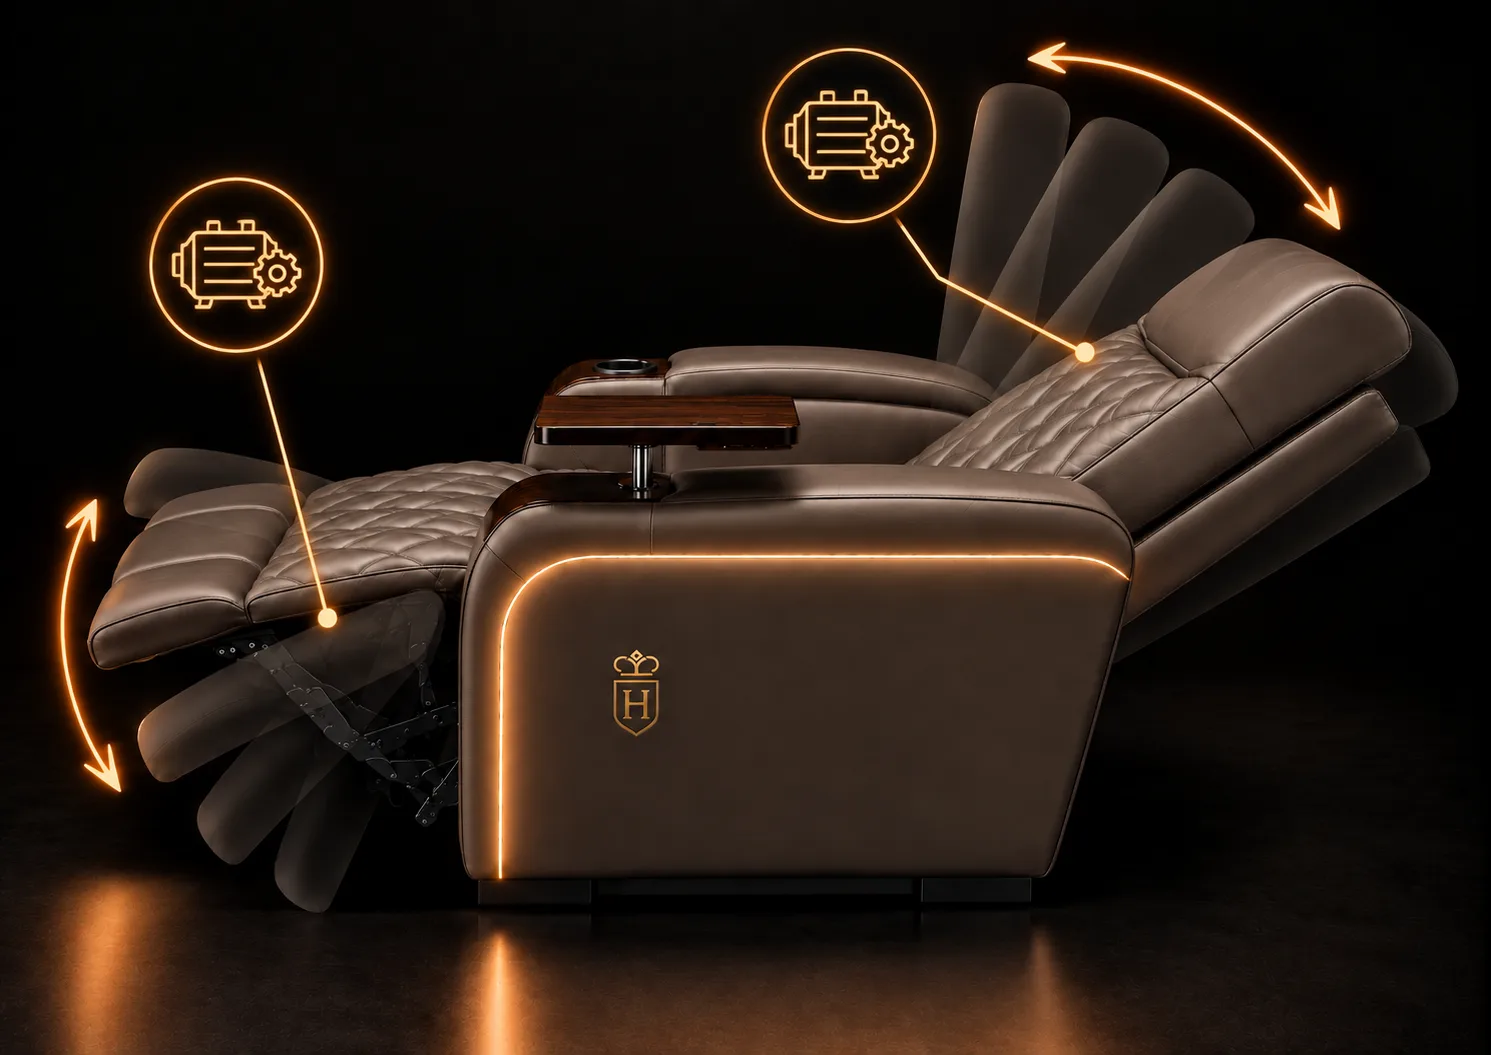
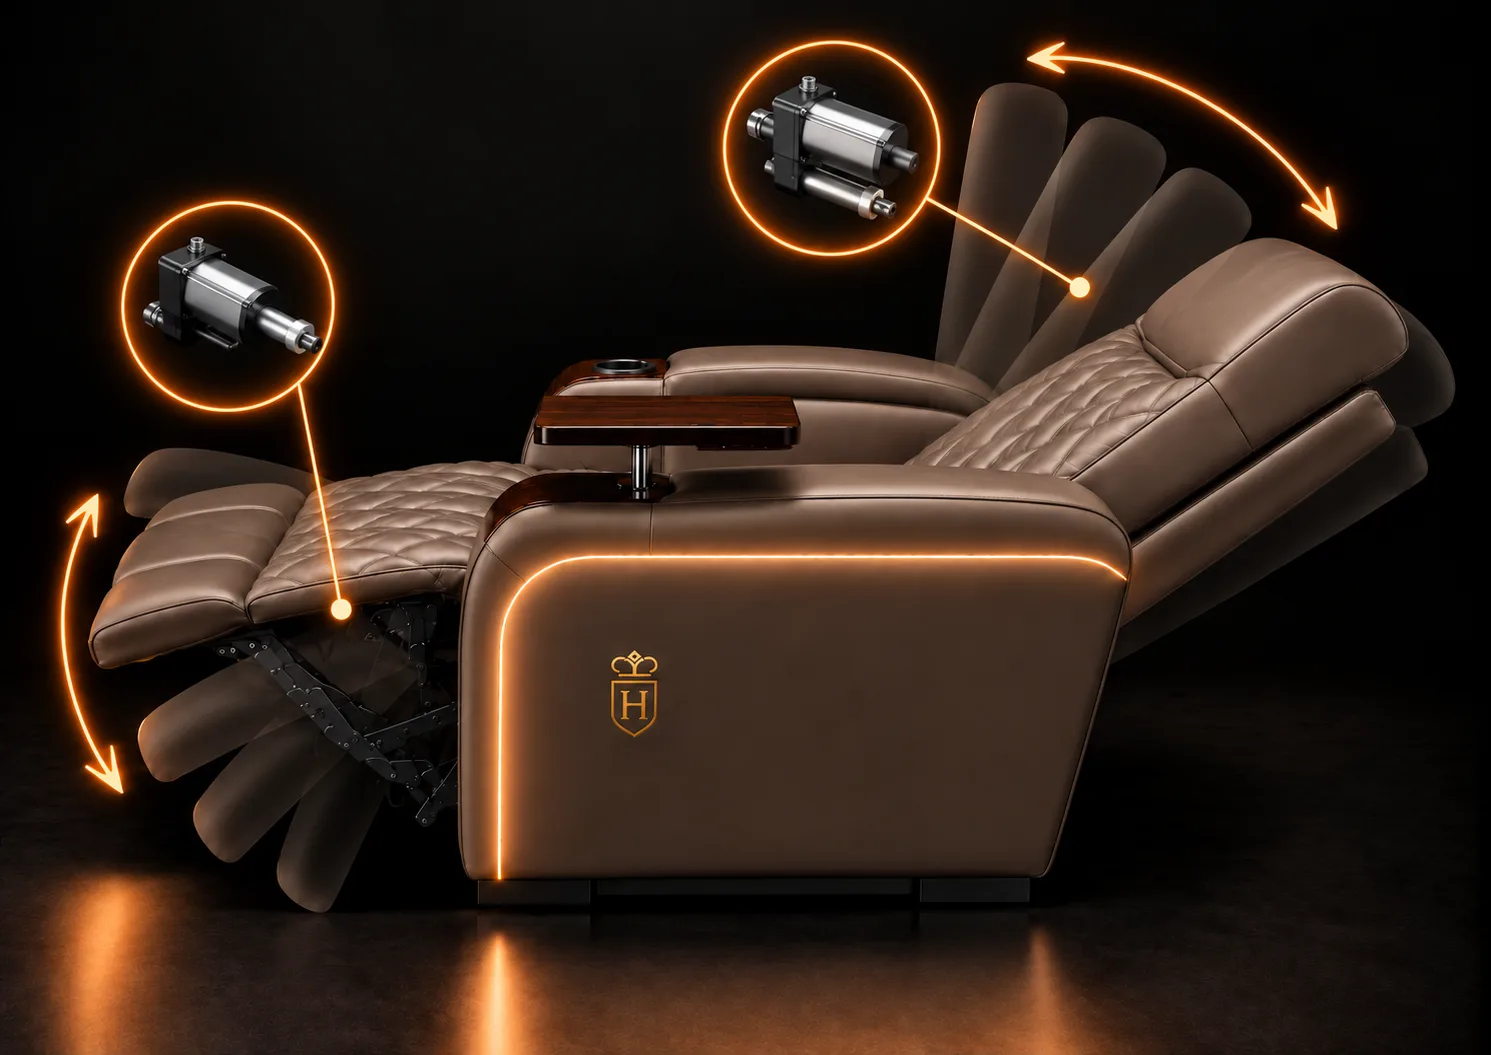
Add massage function equipment option to Vesper Solo, Nova Solo, Solaris Solo; replace Vesper Solo mechanism photo; convert equipment images to webp

diff --git a/files-mentioned-by-the-user-asset/outputs/henry-home-prototype/app/components/product-experience.tsx b/files-mentioned-by-the-user-asset/outputs/henry-home-prototype/app/components/product-experience.tsx
@@ -77,10 +77,24 @@ const equipmentOptions = [
   { key: "headrest", number: "05", title: "Elektryczny zagłówek", description: "Płynna regulacja dopasowana do sylwetki.", image: "/media/personalizacja/headrest.png" },
 ];
 
+const novaSoloEquipmentRoot = "/media/product-pages/nova-solo/equipment";
+
+const novaSoloEquipmentOptions = [
+  ...equipmentOptions,
+  { key: "masaz", number: "06", title: "Funkcja masażu", description: "Wbudowany masaż wspierający pełny relaks podczas seansu.", image: `${novaSoloEquipmentRoot}/nova-solo-equipment-06-funkcja-masazu.webp` },
+];
+
+const solarisSoloEquipmentRoot = "/media/product-pages/solaris-solo/equipment";
+
+const solarisSoloEquipmentOptions = [
+  ...equipmentOptions,
+  { key: "masaz", number: "06", title: "Funkcja masażu", description: "Wbudowany masaż wspierający pełny relaks podczas seansu.", image: `${solarisSoloEquipmentRoot}/solaris-solo-equipment-06-funkcja-masazu.webp` },
+];
+
 const vesperSoloEquipmentRoot = "/media/product-pages/vesper-solo/equipment";
 
 const vesperSoloEquipmentOptions = [
-  { key: "henry-command", number: "01", title: "HENRY Command", description: "Inteligentny panel sterowania. Centralne sterowanie funkcjami fotela z poziomu intuicyjnego ekranu dotykowego. Pozycja fotela, pamięć ustawień, masaż, ogrzewanie i Ambient Lighting — wszystko w jednym miejscu.", image: `${vesperSoloEquipmentRoot}/vesper-solo-equipment-00-henry-command.png` },
+  { key: "henry-command", number: "01", title: "HENRY Command", description: "Inteligentny panel sterowania. Centralne sterowanie funkcjami fotela z poziomu intuicyjnego ekranu dotykowego. Pozycja fotela, pamięć ustawień, masaż, ogrzewanie i Ambient Lighting — wszystko w jednym miejscu.", image: `${vesperSoloEquipmentRoot}/vesper-solo-equipment-00-henry-command.webp` },
   { key: "poduszka", number: "02", title: "Poduszka Henry", description: "Dodatkowe wsparcie i komfort w dowolnym miejscu fotela.", image: `${vesperSoloEquipmentRoot}/vesper-solo-equipment-01-poduszka-henry.webp` },
   { key: "stolik", number: "03", title: "Stolik Vesper", description: "Praktyczny stolik boczny dopasowany do bryły fotela.", image: `${vesperSoloEquipmentRoot}/vesper-solo-equipment-02-stolik-vesper.webp` },
   { key: "zaglowek", number: "04", title: "Regulacja zagłówka Vesper", description: "Precyzyjne dopasowanie podparcia głowy i szyi.", image: `${vesperSoloEquipmentRoot}/vesper-solo-equipment-03-regulacja-zaglowka.webp` },
@@ -90,6 +104,7 @@ const vesperSoloEquipmentOptions = [
   { key: "glosnik", number: "08", title: "Głośnik", description: "Dźwięk osobisty zintegrowany z fotelem.", image: `${vesperSoloEquipmentRoot}/vesper-solo-equipment-07-glosnik.webp` },
   { key: "schowek", number: "09", title: "Schowek w podłokietniku", description: "Miejsce na drobiazgi zawsze pod ręką.", image: `${vesperSoloEquipmentRoot}/vesper-solo-equipment-08-schowek.webp` },
   { key: "niezalezne-mechanizmy", number: "10", title: "Niezależne mechanizmy regulacji", description: "Oparcie i podnóżek regulowane niezależnie od siebie.", image: `${vesperSoloEquipmentRoot}/vesper-solo-equipment-09-niezalezne-mechanizmy.webp` },
+  { key: "masaz", number: "11", title: "Funkcja masażu", description: "Wbudowany masaż wspierający pełny relaks podczas seansu.", image: `${vesperSoloEquipmentRoot}/vesper-solo-equipment-10-funkcja-masazu.webp` },
 ];
 
 const novaLeatherSwatches: MaterialSwatch[] = ["Ivory Mist", "Warm Sand", "Natural Taupe", "Stone", "Cognac", "Olive", "Forest", "Graphite", "Onyx", "Midnight", "Charcoal", "Bordeaux"].map((name, index) => {
@@ -150,6 +165,7 @@ export function ProductExperience({ collection, product, isReady, isHero }: { co
   const [featureGridClipHeight, setFeatureGridClipHeight] = useState<number>();
   const isVesperSolo = product.slug === "vesper-solo";
   const isNovaSolo = product.slug === "nova-solo";
+  const isSolarisSolo = product.slug === "solaris-solo";
   const featuresReady = isReady || isVesperSolo;
   const activeFeatureCards = isVesperSolo ? vesperSoloFeatureCards : featureCards;
   const featureBoxCount = isHero ? activeFeatureCards.length : productPhotoCards.length;
@@ -193,7 +209,7 @@ export function ProductExperience({ collection, product, isReady, isHero }: { co
   const activeMaterialLabel = activeMaterial.label;
   const activeMaterialCaption = activeMaterial.captionLabel ?? activeMaterial.label;
   const activeSwatches = materialSwatches[materialKey];
-  const activeEquipmentOptions = isVesperSolo ? vesperSoloEquipmentOptions : equipmentOptions;
+  const activeEquipmentOptions = isVesperSolo ? vesperSoloEquipmentOptions : isNovaSolo ? novaSoloEquipmentOptions : isSolarisSolo ? solarisSoloEquipmentOptions : equipmentOptions;
   const activeEquipmentData = activeEquipmentOptions[Math.min(activeEquipmentOption, activeEquipmentOptions.length - 1)];
   const activeSwatchData = activeSwatches[Math.min(activeSwatch, activeSwatches.length - 1)] as MaterialSwatch | undefined;
   const [outgoingPreview, setOutgoingPreview] = useState<string | null>(null);
